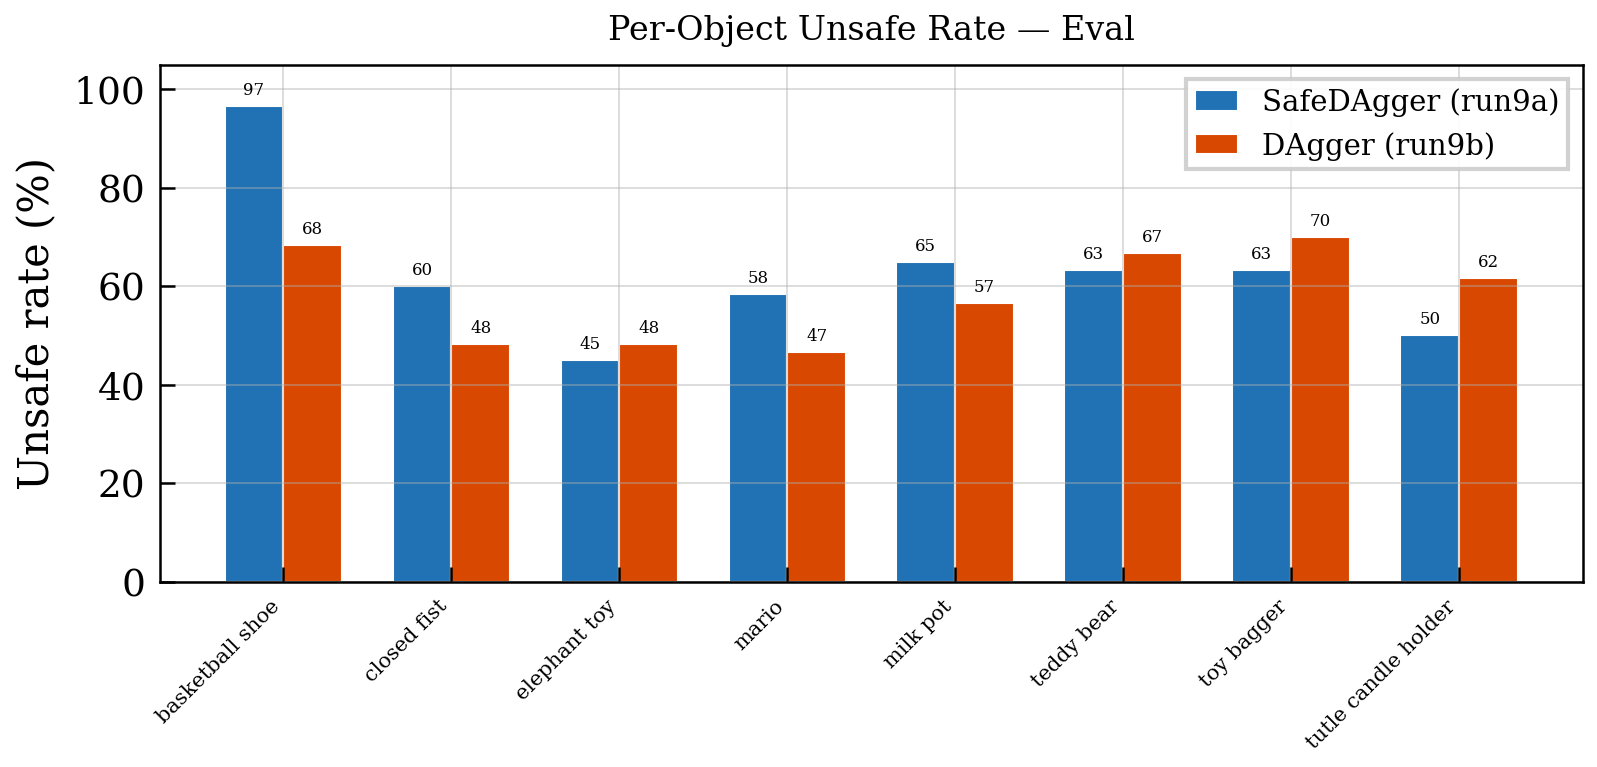
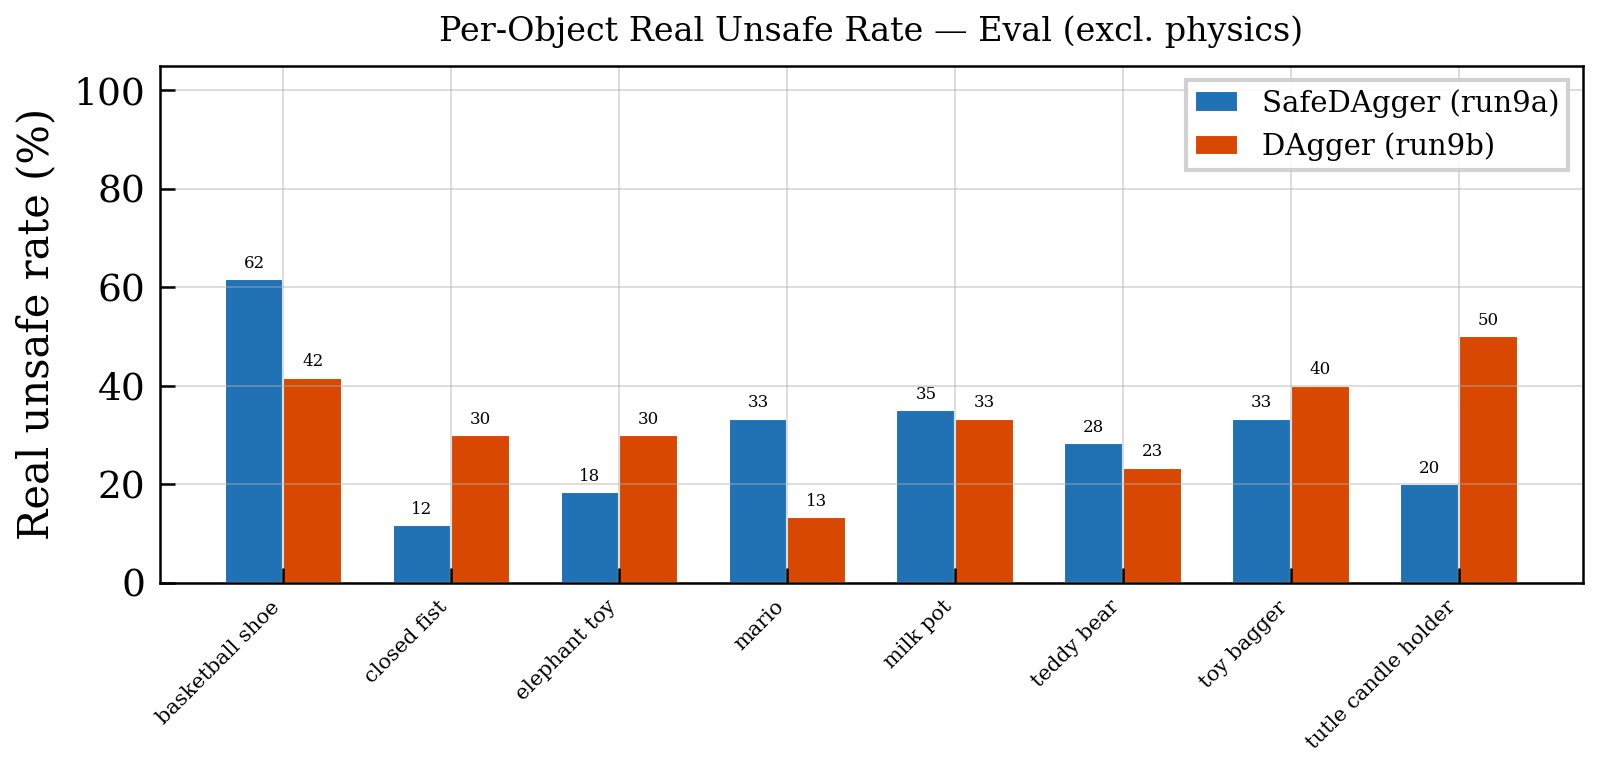
exp_04: exclude physics from eval unsafe plots, fix CLAUDE.md visdex_top8 docs
- Eval per-object unsafe plot now subtracts physics_instability per object
  using unsafe_reason_prop (fraction of all episodes, not of unsafe)
- Fix CLAUDE.md: visdex_top8 object list + teacher_onehot_size docs
- SafeDagger real unsafe 10-30% vs DAgger 30-50% (excl. physics)

diff --git a/dextrah_lab/docs/scripts/plot_results.py b/dextrah_lab/docs/scripts/plot_results.py
@@ -1377,9 +1377,18 @@ def plot_run(run_name, runs, objects, eval_files=None,
     # 7. Eval per-object bar charts (if eval files provided)
     if eval_files:
         import json
-        for metric_key, ylabel, title, fname in [
-            ("lift_success", "Lift success (%)", "Per-Object Lift Success — Eval", "per_object_lift_eval"),
-            ("unsafe_episode_rate", "Unsafe rate (%)", "Per-Object Unsafe Rate — Eval", "per_object_unsafe_eval"),
+
+        # Helper to get per-object real unsafe (excluding physics instability)
+        def _get_real_unsafe(per_obj_data, obj):
+            m = per_obj_data.get(obj, {})
+            total = m.get("unsafe_episode_rate", 0)
+            reasons = m.get("unsafe_reason_prop", {})
+            phys = reasons.get("physics_instability", 0)
+            return total - phys  # reason_prop is fraction of all episodes
+
+        for metric_key, ylabel, title, fname, use_real_unsafe in [
+            ("lift_success", "Lift success (%)", "Per-Object Lift Success — Eval", "per_object_lift_eval", False),
+            ("unsafe_episode_rate", "Real unsafe rate (%)", "Per-Object Real Unsafe Rate — Eval (excl. physics)", "per_object_unsafe_eval", True),
         ]:
             fig, ax = plt.subplots(figsize=(14/2.54, 7/2.54))
             x = np.arange(len(objects))
@@ -1391,8 +1400,11 @@ def plot_run(run_name, runs, objects, eval_files=None,
                     continue
                 with open(path) as fh:
                     data = json.load(fh)
-                vals = [data.get("per_object_metrics", {}).get(obj, {}).get(metric_key, 0) * 100
-                        for obj in objects]
+                per_obj = data.get("per_object_metrics", {})
+                if use_real_unsafe:
+                    vals = [_get_real_unsafe(per_obj, obj) * 100 for obj in objects]
+                else:
+                    vals = [per_obj.get(obj, {}).get(metric_key, 0) * 100 for obj in objects]
                 bars = ax.bar(x + (i - 0.5) * w, vals, w, label=label,
                               color=colors_list[i], edgecolor="white", linewidth=0.5)
                 for bar, val in zip(bars, vals):

diff --git a/CLAUDE.md b/CLAUDE.md
@@ -257,7 +257,7 @@ Robot URDFs/USDs are in `dextrah_lab/assets/`. Training objects in `assets/visde
 
 **Per-object teacher collection** (for multi-teacher distillation): copy best `.pth` for each object into `stored_policies/fr3_agilehand/per_object_teachers/<object_name>/`. Subfolder names must match `multi_objects/3/USD/` subdirectory names exactly.
 
-**Object subsets for limited envs**: `multi_objects/visdex_top8/` contains the 8 best-performing objects from Teacher 11 eval (≥60% lift): toy_cow, mario, teddy_bear, train, plane, basketball_shoe, closed_fist, milk_pot. Use with 24 envs for 3 envs/object. A single teacher trained on all 13 objects works with any subset — `teacher_onehot` is a size-1 placeholder, not N-dimensional, so obs space is independent of object count.
+**Object subsets for limited envs**: `multi_objects/visdex_top8/` contains the 8 best-performing objects from Teacher 11 eval (≥48% avg lift): teddy_bear, closed_fist, elephant_toy, milk_pot, toy_bagger, tutle_candle_holder, mario, basketball_shoe. Use with 24 envs for 3 envs/object. When distilling with a subset, set `env.teacher_onehot_size=13 env.teacher_objects_dir=multi_objects/visdex_selected` to match teacher's observation space and map object indices correctly.
 
 Git LFS is used for `.pth` model weight files.
 
